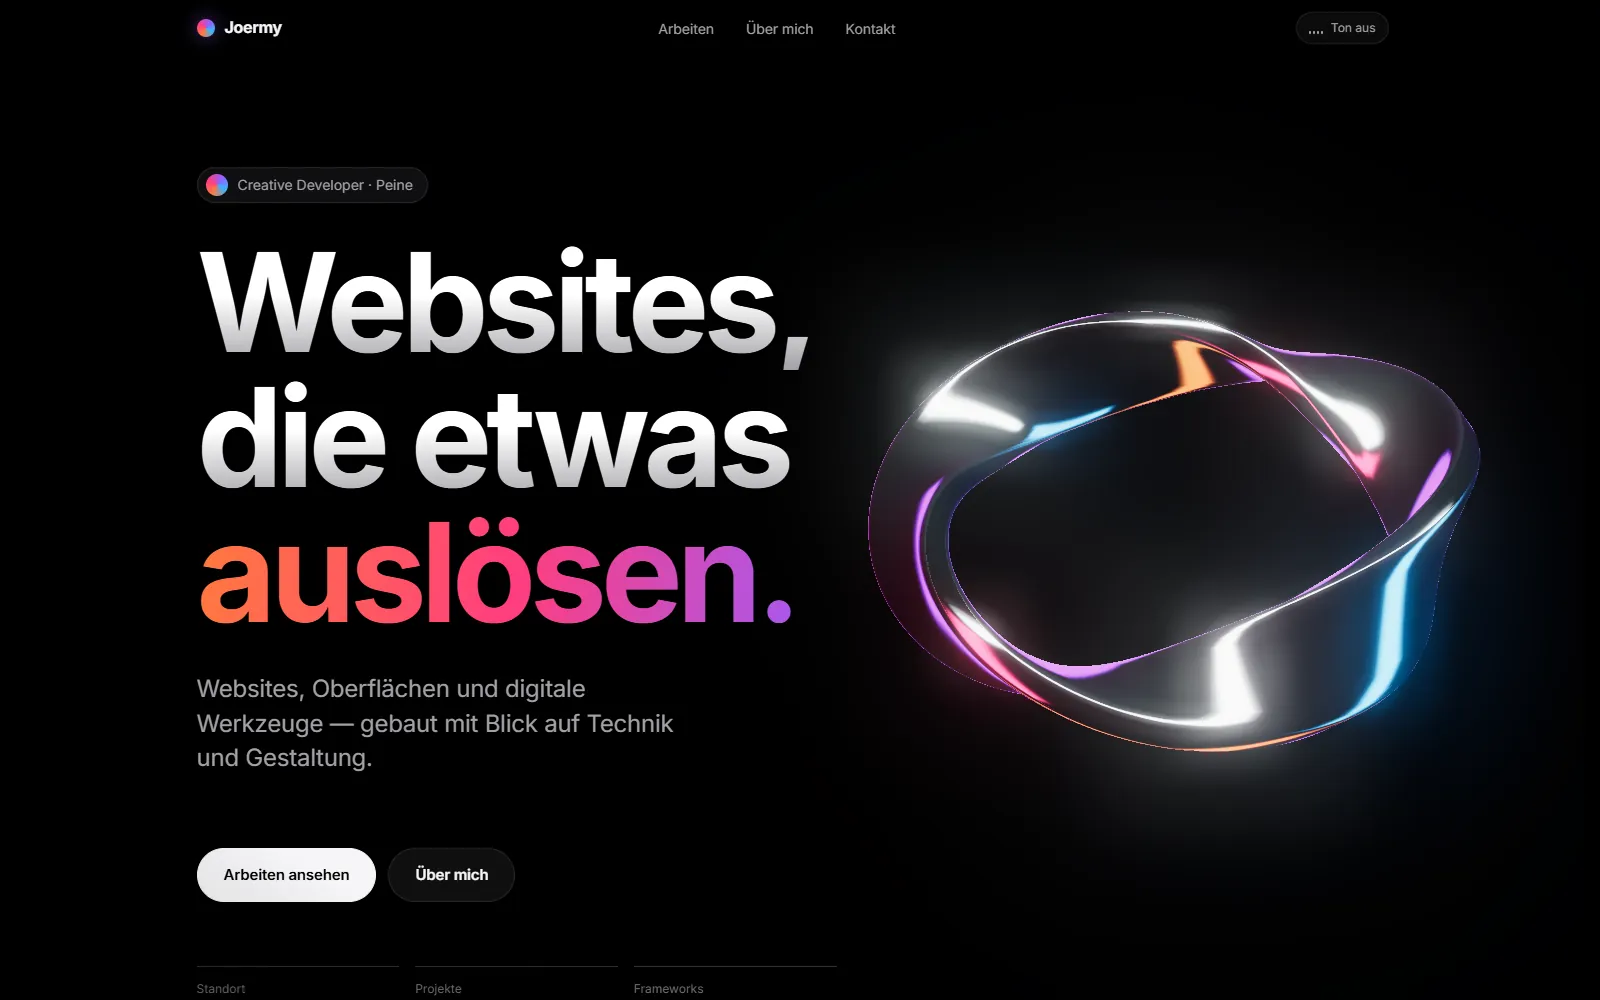
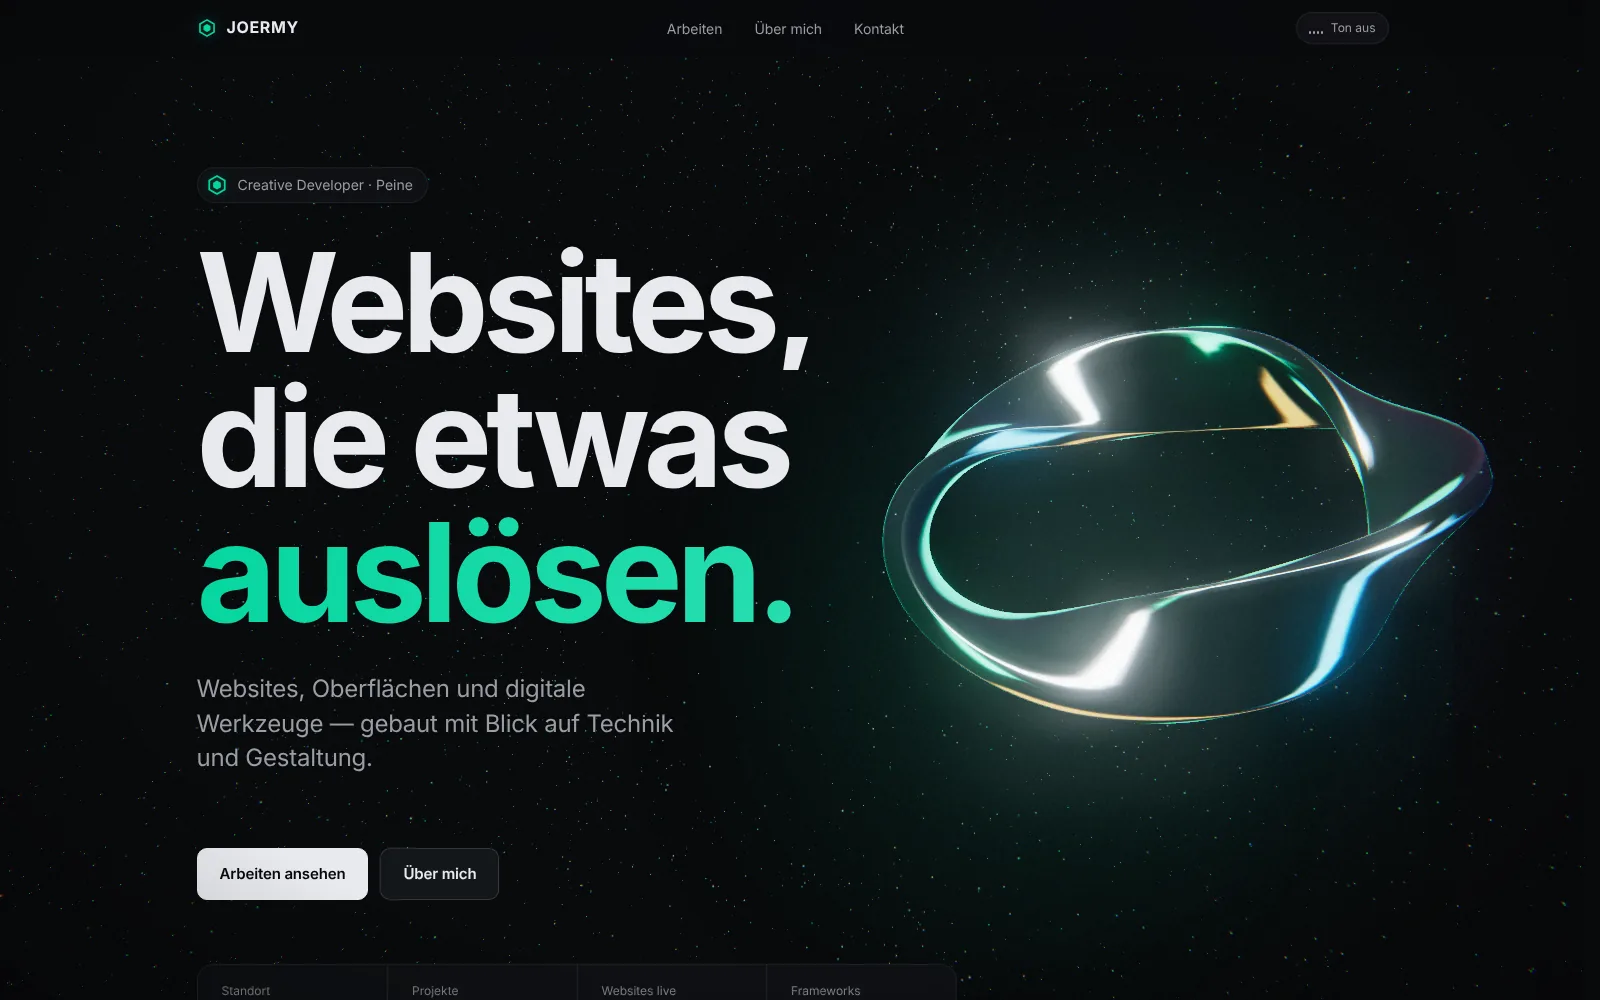
Projekt „Dieses Portfolio“: neues Titelbild und Beschreibung
Screenshot der neuen Startseite statt des alten lila Bands, Text und
Alt-Text beschreiben Teal-Akzent und den Zerfall in Partikel.

Claude-Session: https://claude.ai/code/session_017qHanARPs2K4rDhDhzYoGQ

diff --git a/work/portfolio-website/index.html b/work/portfolio-website/index.html
@@ -42,14 +42,14 @@
         <div class="rahmen__leiste" aria-hidden="true"><span class="rahmen__punkt"></span><span class="rahmen__punkt"></span><span class="rahmen__punkt"></span></div>
         <picture>
           <source type="image/webp" srcset="../../bilder/portfolio-website/hero-400.webp 400w, ../../bilder/portfolio-website/hero-800.webp 800w, ../../bilder/portfolio-website/hero-1600.webp 1600w" sizes="(min-width: 960px) 1280px, 90vw">
-          <img src="../../bilder/portfolio-website/hero-800.jpg" srcset="../../bilder/portfolio-website/hero-400.jpg 400w, ../../bilder/portfolio-website/hero-800.jpg 800w, ../../bilder/portfolio-website/hero-1600.jpg 1600w" sizes="(min-width: 960px) 1280px, 90vw" width="1600" height="1000" alt="Startseite dieses Portfolios im Browserfenster, dunkles Layout mit großer Überschrift" loading="eager" decoding="async">
+          <img src="../../bilder/portfolio-website/hero-800.jpg" srcset="../../bilder/portfolio-website/hero-400.jpg 400w, ../../bilder/portfolio-website/hero-800.jpg 800w, ../../bilder/portfolio-website/hero-1600.jpg 1600w" sizes="(min-width: 960px) 1280px, 90vw" width="1600" height="1000" alt="Startseite dieses Portfolios: fast schwarzer Grund, Überschrift Websites, die etwas auslösen, das letzte Wort in Teal, rechts ein schimmerndes 3D-Chromband" loading="eager" decoding="async">
         </picture>
       </div>
     </section>
     <section class="projekt-abschnitt breite">
       <div class="projekt-abschnitt__inhalt einblenden">
         <h3>Überblick</h3>
-        <p>Statische Mehrseiten-Website mit eigenem Datensystem für Projekte, selbst gehosteten Schriften und einer eigenen WebGL-Szene mit einem in Blender modellierten Chromband — kein Baukasten, kein CMS.</p>
+        <p>Statische Mehrseiten-Website mit eigenem Datensystem für Projekte, selbst gehosteten Schriften und einer eigenen WebGL-Szene mit einem in Blender modellierten Chromband, das beim Scrollen in Partikel zerfällt und sich am Ende zum Logo sammelt — kein Baukasten, kein CMS.</p>
       </div>
     </section>
     <section class="projekt-abschnitt breite">

diff --git a/daten/projekte.js b/daten/projekte.js
@@ -290,7 +290,7 @@ window.PROJEKTE = [
     description:
       "Diese Website selbst: reines HTML, CSS und JavaScript, ohne Framework und ohne Build-Schritt, mit einer eigenen 3D-Szene im Hero.",
     overview:
-      "Statische Mehrseiten-Website mit eigenem Datensystem für Projekte, selbst gehosteten Schriften, einer eigenen WebGL-Szene mit einem in Blender modellierten Chromband, das beim Scrollen seine Form ändert — kein Baukasten, kein CMS, kein CDN.",
+      "Statische Mehrseiten-Website mit eigenem Datensystem für Projekte, selbst gehosteten Schriften, einer eigenen WebGL-Szene mit einem in Blender modellierten Chromband, das beim Scrollen in Partikel zerfällt und sich am Ende zum Logo sammelt — kein Baukasten, kein CMS, kein CDN.",
     problem:
       "Ein Portfolio sollte beweisen, was es behauptet: dass echter Code dahintersteckt, nicht ein Vorlagen-Baukasten.",
     idea:
@@ -304,7 +304,7 @@ window.PROJEKTE = [
     heroImage: "bilder/portfolio-website/hero",
     heroBreitePx: 1600,
     heroHoehePx: 1000,
-    heroAlt: "Startseite dieses Portfolios: schwarzer Grund, Überschrift Websites, die etwas auslösen, rechts ein schimmerndes 3D-Chromband",
+    heroAlt: "Startseite dieses Portfolios: fast schwarzer Grund, Überschrift Websites, die etwas auslösen, das letzte Wort in Teal, rechts ein schimmerndes 3D-Chromband",
     galerie: []
   }
 ];
